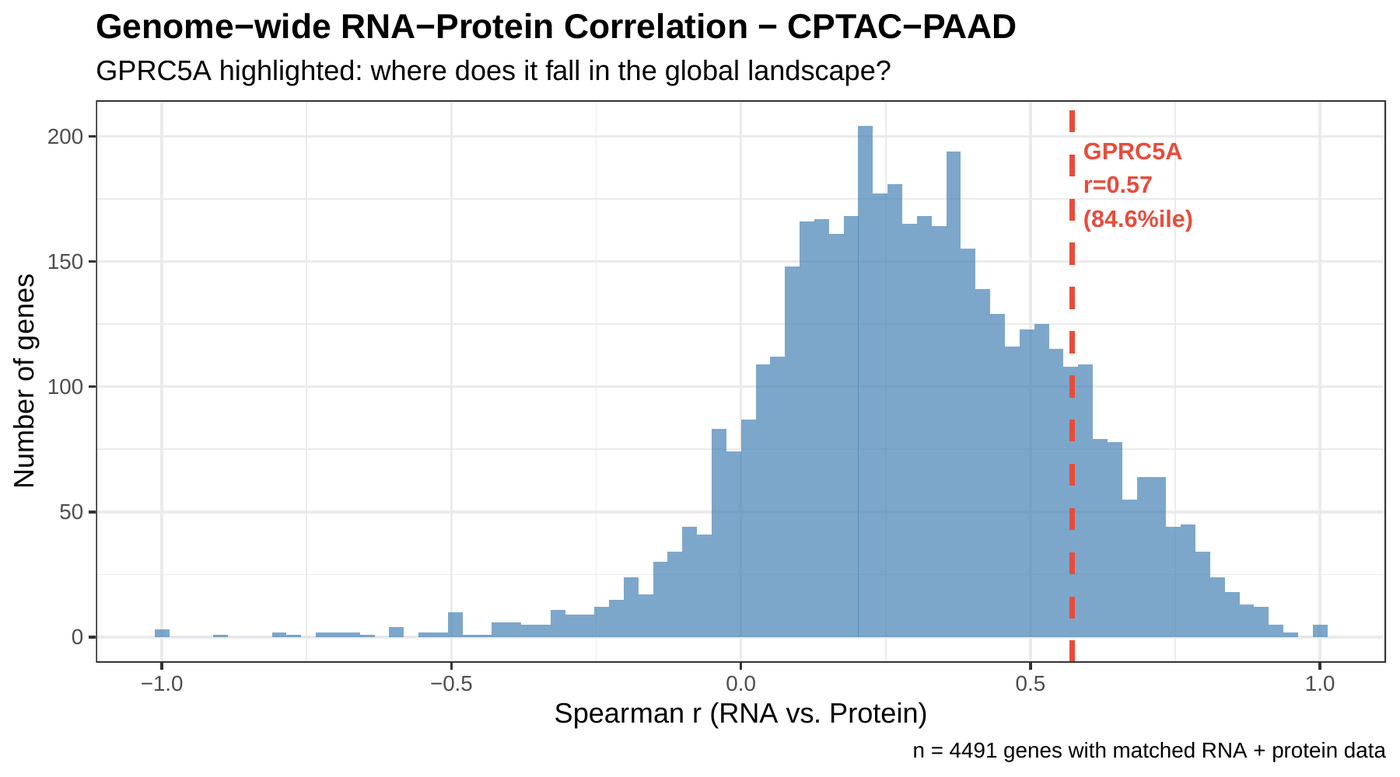
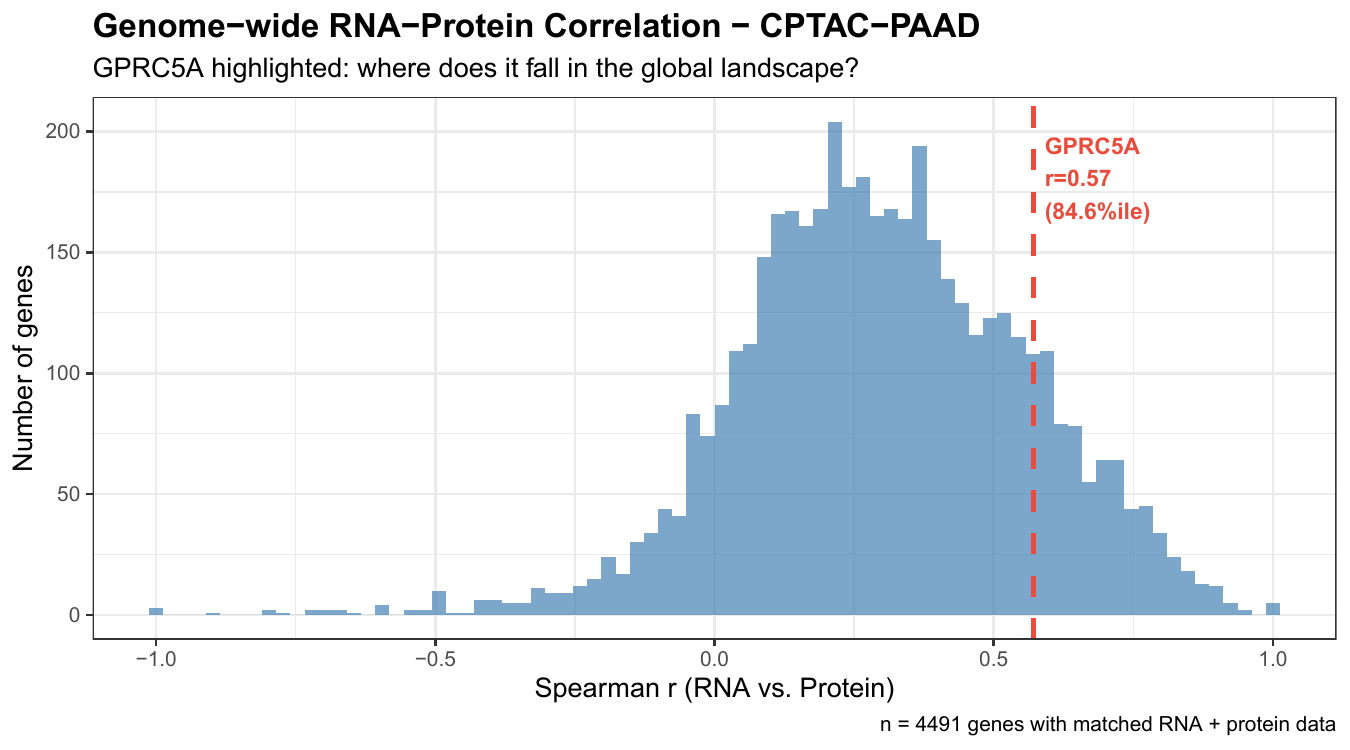
Add all 17 figures as PNGs; update README with complete figure gallery
Figures added/updated (all aims):
- Aim 1: expression heatmap, forest plot (updated w/ interaction term),
  gprc5a subtype boxplot, KM curves, subtype score scatter
- Aim 2: treatment boxplot, treatment stratified forest (updated subtitle),
  multivariable forest, KM by treatment stratum
- Aim 3: RNA-protein scatter, genome-wide correlation density
- Aim 4: AlphaFold pLDDT overlay, lollipop mutation plot (null result)
- Aim 5: ROC curves (updated w/ caveat), feature importance,
  calibration plot, role-state KM

README:
- All 17 figures now embedded and organized by aim
- Captions updated to reflect reviewer fixes (interaction p=0.272,
  treatment-naive n=1 note, ML circularity caveat)
- regen_figures.R added to repository structure section

diff --git a/README.md b/README.md
@@ -8,11 +8,11 @@
 
 ## The Finding
 
-Prior work ([Markarian 2025, bioRxiv](https://doi.org/10.1101/2025.11.14.688421)) identified GPRC5A as prognostically relevant in PDAC but flagged a contradiction: reduced expression in deceased patients. Three explanations were possible, molecular subtype mixing, gemcitabine-induced transcriptional confounding, or post-transcriptional regulation. This five-aim pipeline tests all three.
+Prior work ([Markarian 2025, bioRxiv](https://doi.org/10.1101/2025.11.14.688421)) identified GPRC5A as prognostically relevant in PDAC but flagged a contradiction: reduced expression in deceased patients. Three explanations were possible — molecular subtype mixing, gemcitabine-induced transcriptional confounding, or post-transcriptional regulation. This five-aim pipeline tests all three.
 
 **Short answer: it is mostly Simpson's Paradox.**
 
-GPRC5A behaves differently depending on which molecular subtype of PDAC a tumor belongs to. When you pool both subtypes and look at bulk expression, the signal flips, not because the biology changed, but because the aggregate obscures two opposing subtype-specific associations.
+GPRC5A behaves differently depending on which molecular subtype of PDAC a tumor belongs to. When you pool both subtypes and look at bulk expression, the signal flips — not because the biology changed, but because the aggregate obscures two opposing subtype-specific associations.
 
 ---
 
@@ -20,42 +20,74 @@ GPRC5A behaves differently depending on which molecular subtype of PDAC a tumor 
 
 ### Aim 1 — Subtype stratification explains the paradox
 
-Classical subtype (n=100): high GPRC5A → significantly **worse** survival (HR=1.53, p=0.0017)
+Classical subtype (n=100): high GPRC5A → significantly **worse** survival (HR=1.53, p=0.0017)  
 Basal-like subtype (n=77): high GPRC5A → **better** relative survival (log-rank p=0.022)
 
 Pooling them without stratification creates an artifactual inverse signal — a textbook Simpson's Paradox.
 
 | ![KM curves by subtype](results/figures/aim1_kaplan_meier_by_subtype.png) | ![Forest plot](results/figures/aim1_forest_plot.png) |
 |:---:|:---:|
-| *Kaplan–Meier by subtype — opposing directionality* | *Cox HRs across models — consistently >1* |
+| *Kaplan–Meier by subtype — opposing directionality* | *Cox HRs across models including interaction term (p=0.272, n.s.)* |
+
+| ![Expression heatmap](results/figures/aim1_expression_heatmap.png) | ![Subtype score scatter](results/figures/aim1_subtype_score_scatter.png) |
+|:---:|:---:|
+| *GPRC5A co-clusters with the classical gene signature* | *GPRC5A expression vs. Moffitt composite subtype score* |
+
+| ![Expression boxplot](results/figures/aim1_gprc5a_subtype_boxplot.png) |
+|:---:|
+| *Within-subtype expression: higher GPRC5A consistently associates with worse survival in both subtypes (Classical p=5.9×10⁻⁵, Basal-like p=0.0099)* |
+
+---
 
 ### Aim 2 — Gemcitabine is a secondary confound, not the primary cause
 
-In gemcitabine-treated patients, the GPRC5A HR attenuates to non-significance (1.22, p=0.22). But in the fully adjusted multivariable model it stays significant (HR=1.44, p=3.89×10⁻⁶). Gemcitabine confounds the signal — it does not create it.
+In gemcitabine-treated patients, the GPRC5A HR attenuates to non-significance (HR=1.22, p=0.221). In the fully adjusted multivariable model it remains significant (HR=1.44, p=3.89×10⁻⁶). Gemcitabine confounds the signal — it does not create it. Treatment-naive comparison is not feasible (n=1).
+
+| ![Treatment boxplot](results/figures/aim2_treatment_boxplot.png) | ![Treatment stratified forest](results/figures/aim2_treatment_stratified_forest.png) |
+|:---:|:---:|
+| *GPRC5A expression by treatment group and vital status* | *HR attenuation in gemcitabine-treated patients* |
+
+| ![Multivariable forest](results/figures/aim2_forest_multivariable.png) | ![KM by treatment stratum](results/figures/aim2_km_by_treatment_stratum.png) |
+|:---:|:---:|
+| *GPRC5A HR stable across five multivariable adjustment models* | *KM curves stratified by treatment group* |
+
+---
 
 ### Aim 3 — Post-transcriptional regulation is not the driver
 
-GPRC5A RNA–protein Spearman r = 0.571 across 140 matched CPTAC-PAAD samples. That puts it at the **84.6th genome-wide percentile** — it is among the better-translated genes in PDAC, not an outlier subject to repression.
+GPRC5A RNA–protein Spearman r = 0.571 across 140 matched CPTAC-PAAD samples. That puts it at the **84.6th genome-wide percentile** — among the better-translated genes in PDAC, not an outlier subject to repression.
 
-| ![Genome-wide RNA-protein](results/figures/aim3_genome_wide_rna_protein_cor.png) |
-|:---:|
-| *GPRC5A highlighted at r=0.571 — 84.6th percentile of 4,491 genes* |
+| ![RNA-protein scatter](results/figures/aim3_rna_protein_correlation.png) | ![Genome-wide RNA-protein](results/figures/aim3_genome_wide_rna_protein_cor.png) |
+|:---:|:---:|
+| *GPRC5A RNA vs. protein across 140 matched CPTAC-PAAD samples (r=0.571)* | *GPRC5A at 84.6th percentile of 4,491 genome-wide gene pairs* |
+
+---
 
 ### Aim 4 — Zero somatic mutations in GPRC5A across TCGA-PAAD
 
-No recurrent coding mutations. GPRC5A dysregulation is **regulatory, not structural** — pointing future work toward epigenomics and transcription factor binding.
+No recurrent coding mutations across 177 samples. GPRC5A dysregulation is **regulatory, not structural** — pointing future work toward epigenomics and transcription factor binding.
+
+| ![AlphaFold pLDDT](results/figures/aim4_plddt_mutation_overlay.png) | ![Lollipop mutation plot](results/figures/aim4_lollipop_mutation_plot.png) |
+|:---:|:---:|
+| *AlphaFold2 per-residue confidence with domain annotations* | *Empty somatic mutation track — null result is the finding* |
+
+---
 
 ### Aim 5 — ML classifier predicts GPRC5A functional role state
 
 A leakage-free Random Forest trained on subtype scores and co-expression features predicts whether GPRC5A is acting oncogenically or suppressively in a given tumor.
 
-- Held-out test AUC: **0.833**
-- LOOCV AUC: 0.758
-- GPRC5A expression ranks **23rd** in feature importance — the broader subtype context matters more than the gene itself
+- Held-out test AUC: **0.833** · LOOCV AUC: 0.758  
+- GPRC5A expression ranks **23rd** in feature importance — the broader subtype context matters more than the gene itself  
+- *Caveat: labels incorporate vital status; AUC reflects proof-of-concept subtype-context encoding, not independent prognostic prediction*
 
 | ![ROC curves](results/figures/aim5_roc_curves.png) | ![Feature importance](results/figures/aim5_feature_importance.png) |
 |:---:|:---:|
-| *Held-out test ROC — RF AUC=0.833* | *Classical co-expression features dominate* |
+| *Held-out test ROC — RF AUC=0.833* | *Classical co-expression features dominate (GPRC5A ranks 23rd)* |
+
+| ![Calibration plot](results/figures/aim5_calibration_plot.png) | ![Role-state KM](results/figures/aim5_role_state_km.png) |
+|:---:|:---:|
+| *Classifier calibration on held-out test set* | *KM by predicted role state — directional trend, p=0.18 (n=12, underpowered)* |
 
 ---
 
@@ -69,7 +101,8 @@ gprc5a-paradox-pdac/
 │   ├── aim2.R                            # Gemcitabine deconfounding + multivariable Cox
 │   ├── aim3.R                            # CPTAC RNA–protein correlation + genome-wide benchmarking
 │   ├── aim4.R                            # AlphaFold2 domain mapping + somatic mutation extraction
-│   └── aim5.R                            # Leakage-free RF / XGBoost / logistic classifier
+│   ├── aim5.R                            # Leakage-free RF / XGBoost / logistic classifier
+│   └── regen_figures.R                   # Regenerate fixed figures from pre-computed tables
 ├── results/
 │   ├── figures/                          # PNG figures (embedded above) + PDFs
 │   └── tables/                           # CSV result tables for all aims
